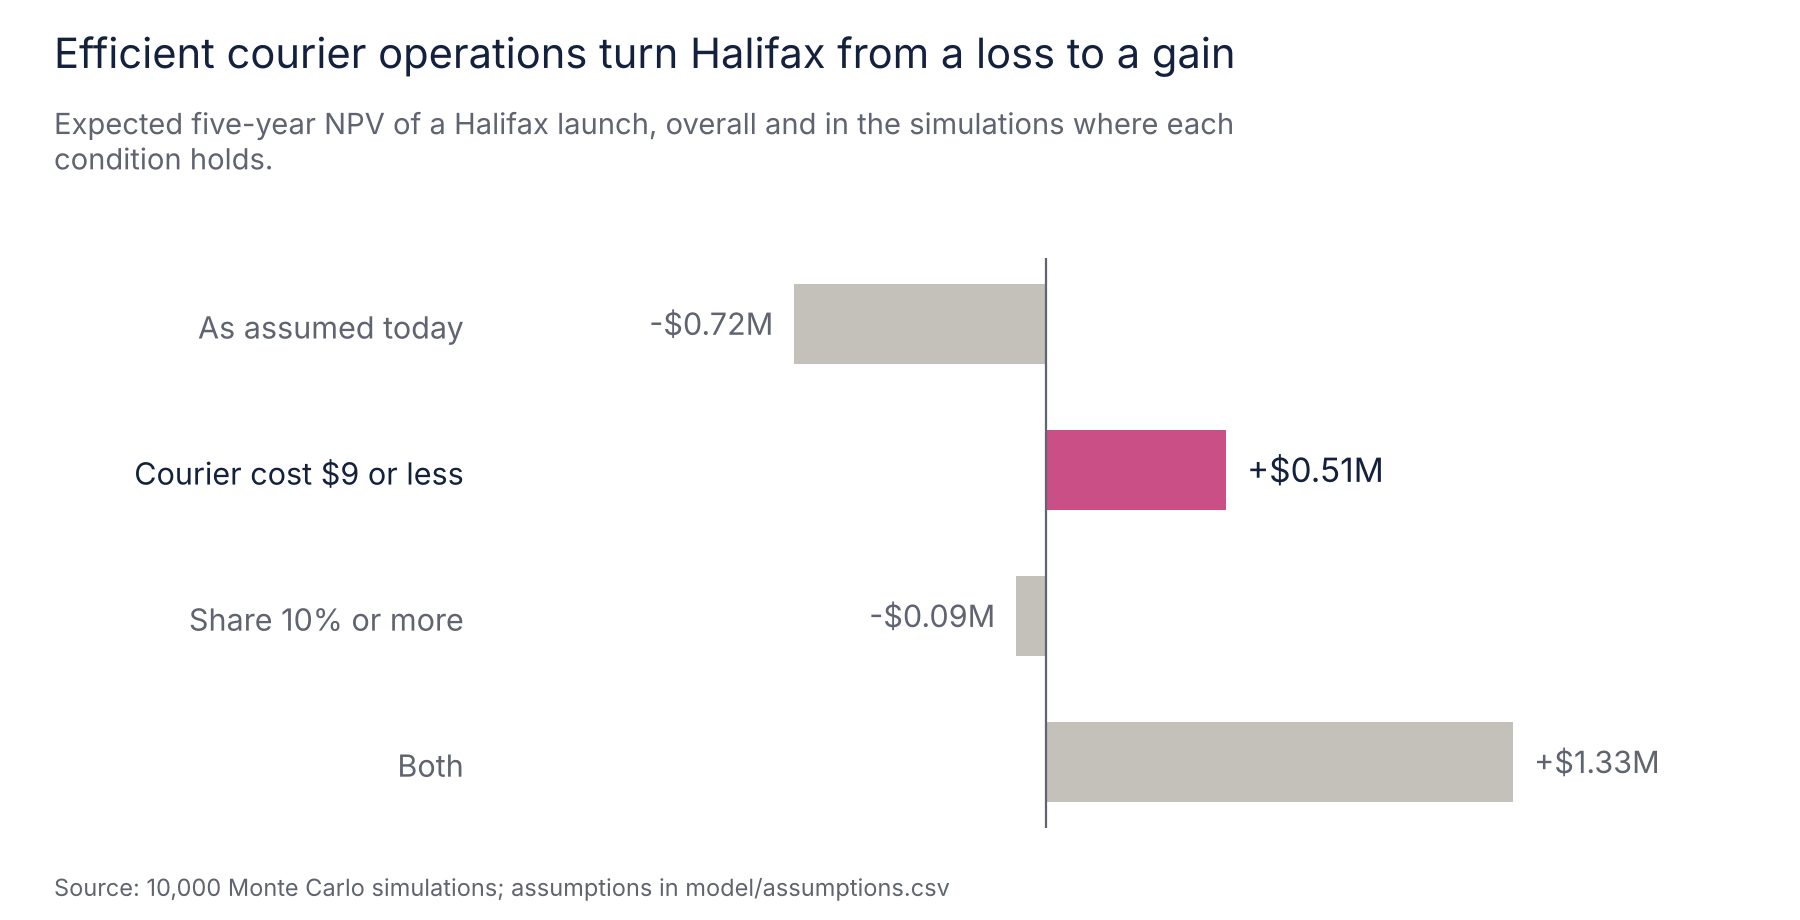
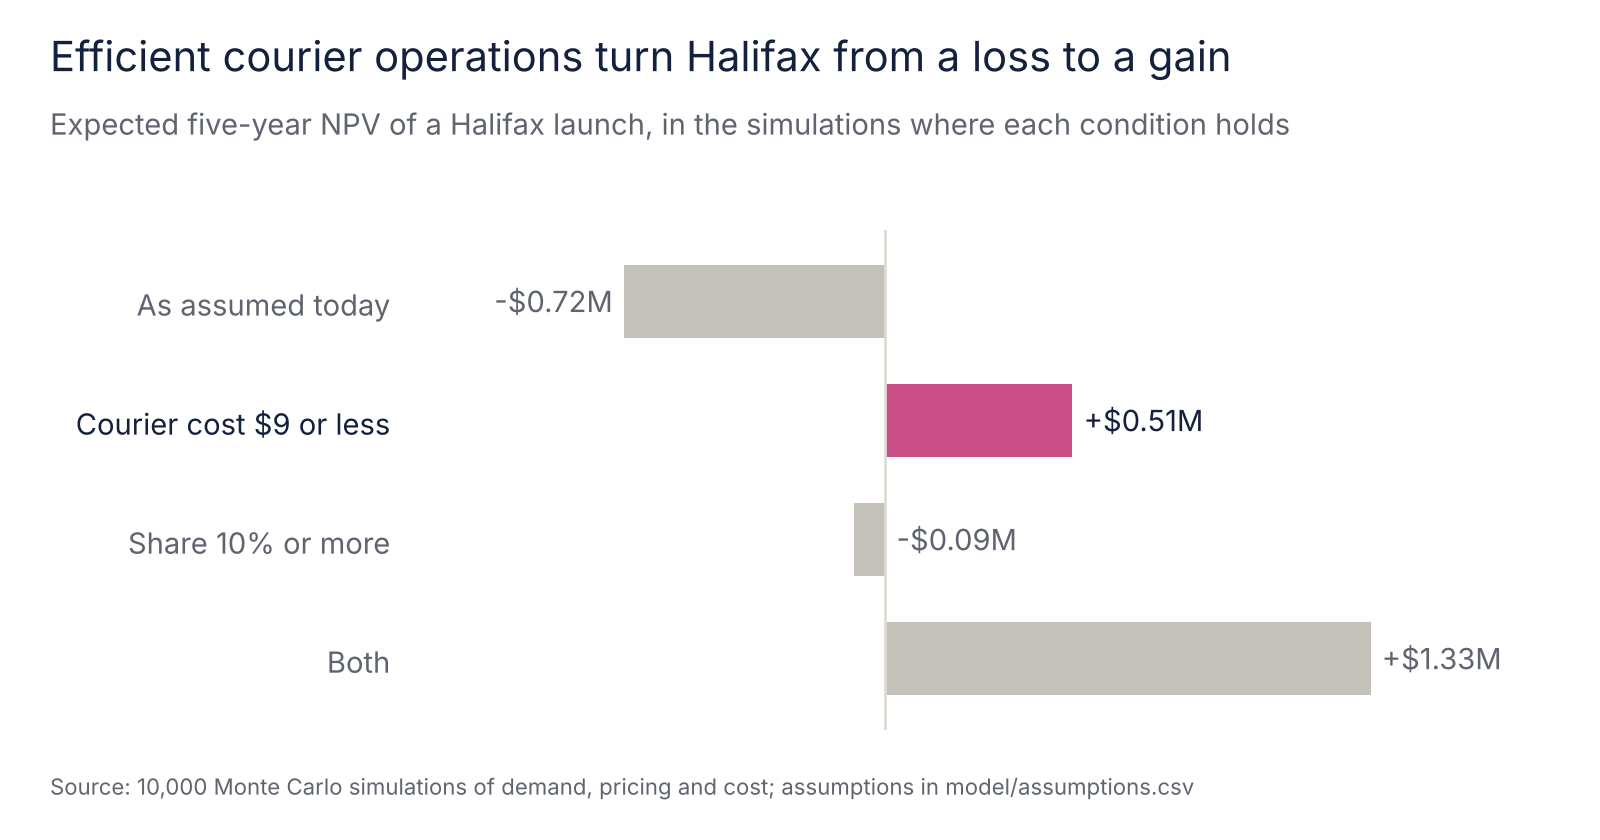
Cleaner charts: shared layout and shorter labels

diff --git a/scripts/brand_style.py b/scripts/brand_style.py
@@ -7,6 +7,7 @@ Colours are validated with the dataviz palette checks (lightness band, chroma, c
 """
 import matplotlib
 import matplotlib.pyplot as plt
+import matplotlib.ticker
 
 INK = "#14213d"        # navy: headlines, values, key labels
 MUTED = "#5f6470"      # deck, axis labels, source line (5.9:1 on white)
@@ -26,6 +27,8 @@ PROJECT = {
     "funnel-attribution-audit": "#b35900",
     "gtm-launch-playbook": "#d1495b",
     "crm-data-hygiene-audit": "#00819e",
+    "marketing-workflows": "#8a6a00",
+    "customer-value-emails": "#3d5a98",
 }
 
 matplotlib.rcParams.update({
@@ -78,6 +81,150 @@ def finish(fig, path, top=0.84, bottom=0.12, left=0.08, right=0.97):
     fig.subplots_adjust(top=top, bottom=bottom, left=left, right=right)
     fig.savefig(path, dpi=150, facecolor=SURFACE)
     plt.close(fig)
+
+
+# Standard chart layout, set in inches so every chart has the same margins whatever its height
+WIDTH = 8.0
+TITLE_IN, DECK_IN, PLOT_TOP_IN = 0.28, 0.62, 1.15   # distances from the top edge
+SOURCE_IN = 0.2                                      # distance from the bottom edge
+LEFT_IN = 0.25                                       # left edge for headline, deck and source
+VALUE = 10.5                                         # value and category label size
+
+
+def chart(height=4.5, label_in=1.6, xaxis=False, right_in=0.55):
+    """A figure with fixed margins. label_in is the room for category labels on the left;
+    xaxis reserves room under the plot: True for tick labels plus an axis title, "ticks" for tick labels only."""
+    fig = plt.figure(figsize=(WIDTH, height), dpi=200)
+    bottom_in = 0.8 if xaxis == "ticks" else 1.0 if xaxis else 0.55
+    left = (LEFT_IN + label_in) / WIDTH
+    ax = fig.add_axes([left, bottom_in / height, 1 - left - right_in / WIDTH,
+                       1 - (PLOT_TOP_IN + bottom_in) / height])
+    for side in ["top", "right", "left", "bottom"]:
+        ax.spines[side].set_visible(False)
+    ax.tick_params(length=0, labelsize=VALUE, colors=MUTED)
+    fig._h = height
+    return fig, ax
+
+
+def titles(fig, title, deck=None):
+    h = fig._h
+    fig.text(LEFT_IN / WIDTH, 1 - TITLE_IN / h, title, fontsize=15, color=INK, ha="left", va="center")
+    if deck:
+        fig.text(LEFT_IN / WIDTH, 1 - DECK_IN / h, deck, fontsize=10.5, color=MUTED, ha="left", va="center")
+
+
+def credit(fig, text):
+    fig.text(LEFT_IN / WIDTH, SOURCE_IN / fig._h, f"Source: {text}", fontsize=8, color=MUTED, ha="left",
+             va="bottom")
+
+
+def save(fig, path):
+    fig.savefig(path, dpi=200, facecolor=SURFACE)
+    plt.close(fig)
+
+
+def hbar(ax, labels, values, highlight, fmt, color, xmax=None):
+    """Horizontal bars, first item at the top. highlight: set of indexes drawn in the project colour."""
+    n = len(values)
+    ys = list(range(n))[::-1]
+    lo = min(0, min(values))
+    hi = xmax or max(values)
+    span = hi - lo
+    for y, v, i in zip(ys, values, range(n)):
+        c = color if i in highlight else CONTEXT
+        ax.barh(y, v, height=0.62, color=c, linewidth=0)
+        small_neg = v < 0 and abs(v) < span * 0.05   # label a tiny negative on the right, like the rest
+        ha, x = ("left", max(v, 0) + span * 0.015) if v >= 0 or small_neg else ("right", v - span * 0.015)
+        ax.text(x, y, fmt[i] if isinstance(fmt, list) else fmt(v), va="center", ha=ha, fontsize=VALUE, color=INK if i in highlight else MUTED)
+    ax.set_yticks(ys)
+    ax.set_yticklabels(labels)
+    for i, t in enumerate(ax.get_yticklabels()):
+        t.set_color(INK if i in highlight else MUTED)
+    ax.set_ylim(-0.6, n - 0.4)
+    big_neg = lo < -span * 0.05
+    ax.set_xlim(lo - span * 0.3 if big_neg else min(lo, 0), hi + span * 0.16)
+    ax.set_xticks([])
+    ax.axvline(0, color=HAIRLINE, linewidth=1)
+    return ax
+
+
+def vbar(ax, labels, values, highlight, fmt, color, ymax=None):
+    """Vertical bars with values on top and categories underneath."""
+    xs = range(len(values))
+    hi = ymax or max(values)
+    for x, v, i in zip(xs, values, range(len(values))):
+        c = color if i in highlight else CONTEXT
+        ax.bar(x, v, width=0.62, color=c, linewidth=0)
+        ax.text(x, v + hi * 0.02, fmt[i] if isinstance(fmt, list) else fmt(v), ha="center", va="bottom", fontsize=VALUE,
+                color=INK if i in highlight else MUTED)
+    ax.set_xticks(list(xs))
+    ax.set_xticklabels(labels)
+    for i, t in enumerate(ax.get_xticklabels()):
+        t.set_color(INK if i in highlight else MUTED)
+    ax.set_yticks([])
+    ax.set_ylim(0, hi * 1.12)
+    ax.axhline(0, color=HAIRLINE, linewidth=1)
+    return ax
+
+
+def dotrange(ax, labels, est, lo, hi, highlight, fmt, color, xlim=None, zero=True):
+    """Estimate with its interval: a dot on a range line, first item at the top."""
+    n = len(est)
+    ys = list(range(n))[::-1]
+    for y, e, a, b_, i in zip(ys, est, lo, hi, range(n)):
+        c = color if i in highlight else CONTEXT
+        ax.plot([a, b_], [y, y], color=c, linewidth=2.4, solid_capstyle="round")
+        ax.scatter([e], [y], s=80, color=c, zorder=3, linewidths=0)
+        ax.text(e, y + 0.26, fmt(e), ha="center", va="bottom", fontsize=VALUE,
+                color=INK if i in highlight else MUTED)
+    ax.set_yticks(ys)
+    ax.set_yticklabels(labels)
+    for i, t in enumerate(ax.get_yticklabels()):
+        t.set_color(INK if i in highlight else MUTED)
+    ax.set_ylim(-0.6, n - 0.2)
+    if xlim:
+        ax.set_xlim(*xlim)
+    ax.set_xticks([])
+    if zero:
+        ax.axvline(0, color=HAIRLINE, linewidth=1)
+        ax.text(0, -0.55, "0", ha="center", va="top", fontsize=9, color=MUTED)
+    return ax
+
+
+def paired_hbar(ax, labels, before, after, highlight, fmt, color, names=("Before", "After")):
+    """Two thin bars per row: before in grey, after in the project colour (grey too unless highlighted)."""
+    n = len(labels)
+    ys = list(range(n))[::-1]
+    hi = max(max(before), max(after))
+    for y, a, b_, i in zip(ys, before, after, range(n)):
+        ca = color
+        ax.barh(y + 0.17, a, height=0.3, color=CONTEXT, linewidth=0)
+        ax.barh(y - 0.17, b_, height=0.3, color=ca, linewidth=0)
+        ax.text(a + hi * 0.015, y + 0.17, fmt(a), va="center", fontsize=9.5, color=MUTED)
+        ax.text(b_ + hi * 0.015, y - 0.17, fmt(b_), va="center", fontsize=VALUE,
+                color=INK if i in highlight else MUTED)
+    top = ys[0]
+    ax.text(hi * 1.22, top + 0.17, names[0], va="center", fontsize=9, color=MUTED)
+    ax.text(hi * 1.22, top - 0.17, names[1], va="center", fontsize=9, color=color)
+    ax.set_yticks(ys)
+    ax.set_yticklabels(labels)
+    for i, t in enumerate(ax.get_yticklabels()):
+        t.set_color(INK if i in highlight else MUTED)
+    ax.set_ylim(-0.6, n - 0.4)
+    ax.set_xlim(0, hi * 1.42)
+    ax.set_xticks([])
+    ax.axvline(0, color=HAIRLINE, linewidth=1)
+    return ax
+
+
+def line_axes(ax, xaxis=True, yfmt=None):
+    """Line charts: keep a bottom baseline and light y tick labels, no gridlines."""
+    if xaxis:
+        ax.spines["bottom"].set_visible(True)
+        ax.spines["bottom"].set_color(HAIRLINE)
+    if yfmt:
+        ax.yaxis.set_major_formatter(matplotlib.ticker.FuncFormatter(lambda v, _: yfmt(v)))
+    return ax
 
 
 STREAMLIT_THEME = """[theme]

diff --git a/scripts/make_charts.py b/scripts/make_charts.py
@@ -11,69 +11,28 @@ import brand_style as b
 ROOT = Path(__file__).resolve().parents[1]
 RES, OUT = ROOT / "results", ROOT / "charts"
 OUT.mkdir(exist_ok=True)
-SURFACE, INK, INK2 = "#ffffff", b.INK, b.MUTED
-HIGHLIGHT, CONTEXT = b.PROJECT["market-entry-investment-case"], b.CONTEXT
-plt.rcParams.update({"font.family": "sans-serif", "font.size": 11, "text.color": INK,
-                     "figure.facecolor": SURFACE, "axes.facecolor": SURFACE})
-
-
-def titles(fig, title, subtitle):
-    fig.text(0.03, 0.97, title, fontsize=15, va="top")
-    fig.text(0.03, 0.885, subtitle, fontsize=10.5, color=INK2, va="top")
-
-
-def style_h(ax, hi_idx, n):
-    for i, lbl in enumerate(ax.get_yticklabels()):
-        lbl.set_color(INK if i == hi_idx else INK2)
-    for s in ax.spines.values():
-        s.set_visible(False)
-    ax.set_xticks([])
-    ax.tick_params(axis="y", length=0, pad=8)
-
+HL = b.PROJECT["market-entry-investment-case"]
+SRC = "10,000 Monte Carlo simulations of demand, pricing and cost; assumptions in model/assumptions.csv"
 
 # Chart 1: chance of a positive five-year NPV by city
-mc = pd.read_csv(RES / "monte_carlo_by_city.csv").sort_values("prob_npv_positive")
-fig, ax = plt.subplots(figsize=(9, 4.6))
-hi = len(mc) - 1
-ax.barh(mc["city"], mc["prob_npv_positive"] * 100, height=0.55,
-        color=[HIGHLIGHT if i == hi else CONTEXT for i in range(len(mc))])
-for y, v in enumerate(mc["prob_npv_positive"]):
-    ax.text(v * 100 + 0.8, y, f"{v:.0%}", va="center", fontsize=12 if y == hi else 11, color=INK if y == hi else INK2)
-style_h(ax, hi, len(mc))
-ax.set_xlim(0, 50)
-titles(fig, "Halifax is the only city with a real chance of paying back",
-       "Chance of a positive five-year NPV for a standalone launch, across 10,000 simulations\n"
-       "of demand, pricing and cost.")
-fig.subplots_adjust(left=0.2, right=0.97, top=0.72, bottom=0.1)
-b.source(fig, "10,000 Monte Carlo simulations; assumptions in model/assumptions.csv")
-fig.savefig(OUT / "01_chance_of_payback_by_city.png", dpi=200)
-plt.close(fig)
+mc = pd.read_csv(RES / "monte_carlo_by_city.csv").sort_values("prob_npv_positive", ascending=False)
+fig, ax = b.chart(height=4.2, label_in=1.35)
+b.hbar(ax, mc.city.tolist(), (mc.prob_npv_positive * 100).tolist(), {0}, lambda v: f"{v:.0f}%", HL)
+b.titles(fig, "Halifax is the only city with a real chance of paying back",
+         "Chance of a positive five-year NPV for a standalone launch")
+b.credit(fig, SRC)
+b.save(fig, OUT / "01_chance_of_payback_by_city.png")
 
 # Chart 2: what has to be true for Halifax
 w = pd.read_csv(RES / "what_has_to_be_true.csv")
-labels = {"All simulations": "As assumed today",
-          "Courier cost at or below $9.00 per order": "Courier cost $9 or less",
-          "Market share at or above 10% by year 3": "Share 10% or more",
-          "Both of the above": "Both"}
-w["label"] = w["condition"].map(labels)
-w = w.iloc[::-1].reset_index(drop=True)
-hi = int(w.index[w["condition"] == "Courier cost at or below $9.00 per order"][0])
-vals = w["expected_npv"] / 1e6
-fig, ax = plt.subplots(figsize=(9, 4.6))
-ax.barh(w["label"], vals, height=0.55, color=[HIGHLIGHT if i == hi else CONTEXT for i in range(len(w))])
-ax.axvline(0, color=INK2, linewidth=0.8)
-for y, v in enumerate(vals):
-    txt = f"{'+' if v > 0 else '-'}${abs(v):.2f}M"
-    ax.text(v + (0.06 if v >= 0 else -0.06), y, txt, va="center", ha="left" if v >= 0 else "right",
-            fontsize=12 if y == hi else 11,
-            color=INK if y == hi else INK2)
-style_h(ax, hi, len(w))
-ax.set_xlim(-1.6, 2.0)
-titles(fig, "Efficient courier operations turn Halifax from a loss to a gain",
-       "Expected five-year NPV of a Halifax launch, overall and in the simulations where each\n"
-       "condition holds.")
-fig.subplots_adjust(left=0.27, right=0.97, top=0.72, bottom=0.1)
-b.source(fig, "10,000 Monte Carlo simulations; assumptions in model/assumptions.csv")
-fig.savefig(OUT / "02_what_has_to_be_true.png", dpi=200)
-plt.close(fig)
+labels = {"All simulations": "As assumed today", "Courier cost at or below $9.00 per order": "Courier cost $9 or less",
+          "Market share at or above 10% by year 3": "Share 10% or more", "Both of the above": "Both"}
+hi = list(w.condition).index("Courier cost at or below $9.00 per order")
+fig, ax = b.chart(height=4.2, label_in=1.75)
+b.hbar(ax, w.condition.map(labels).tolist(), (w.expected_npv / 1e6).tolist(), {hi},
+       lambda v: f"{'+' if v > 0 else '-'}${abs(v):.2f}M", HL)
+b.titles(fig, "Efficient courier operations turn Halifax from a loss to a gain",
+         "Expected five-year NPV of a Halifax launch, in the simulations where each condition holds")
+b.credit(fig, SRC)
+b.save(fig, OUT / "02_what_has_to_be_true.png")
 print("Charts saved to charts/")
